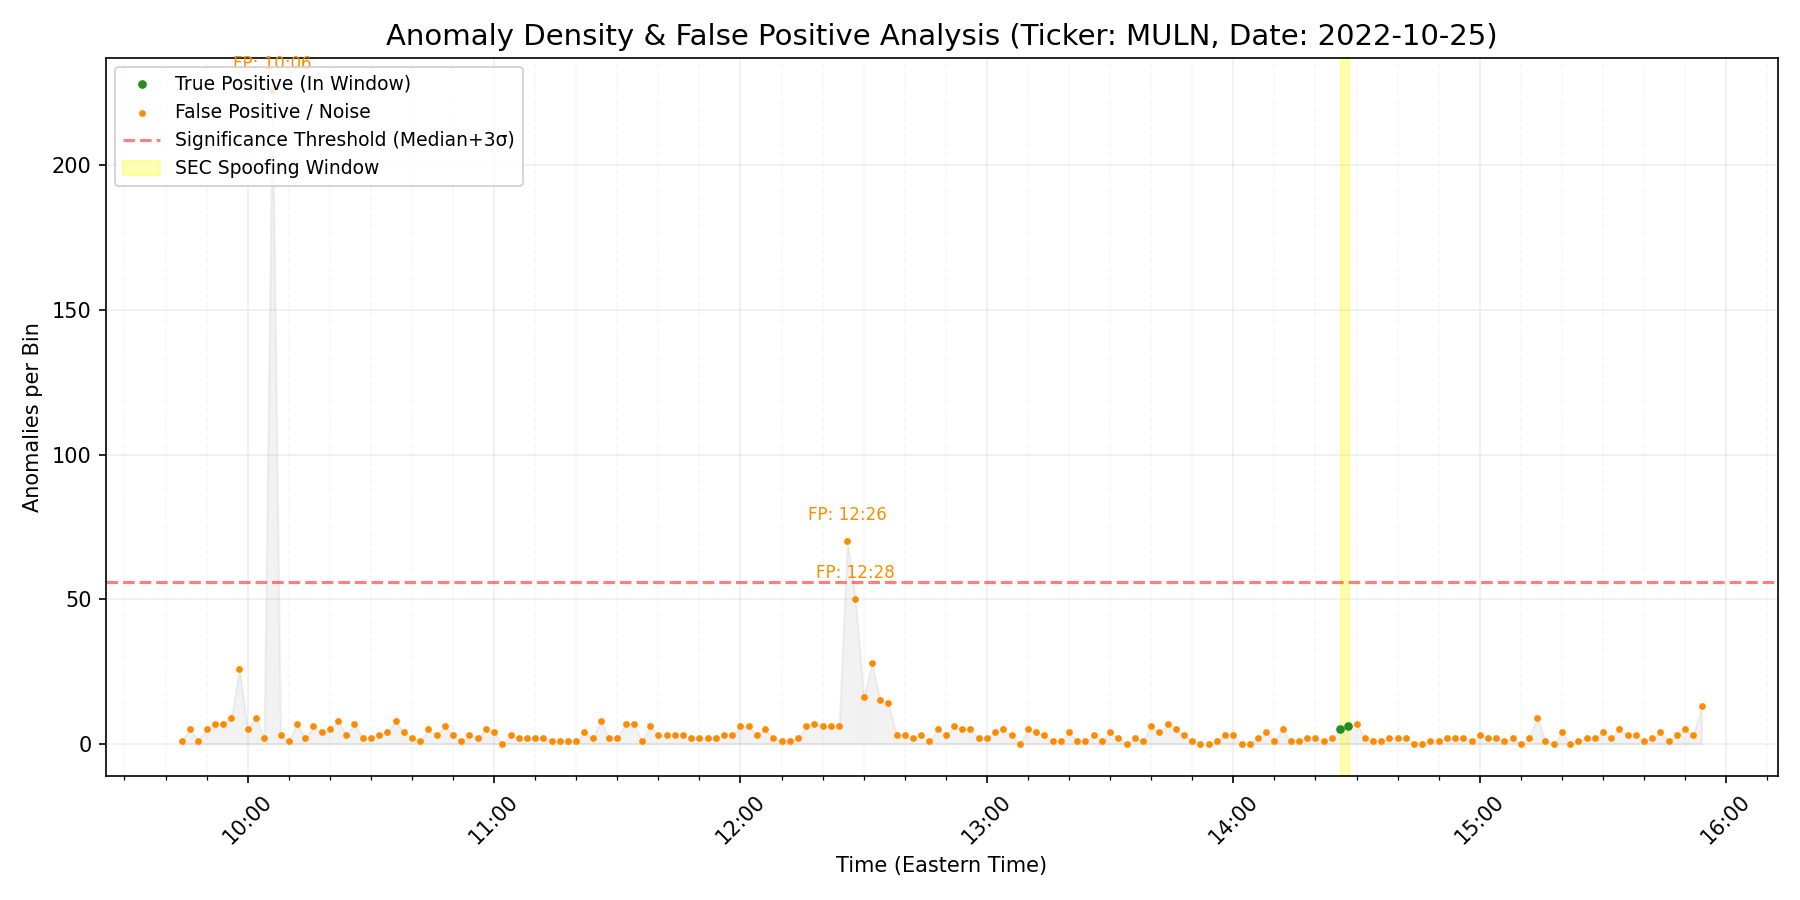
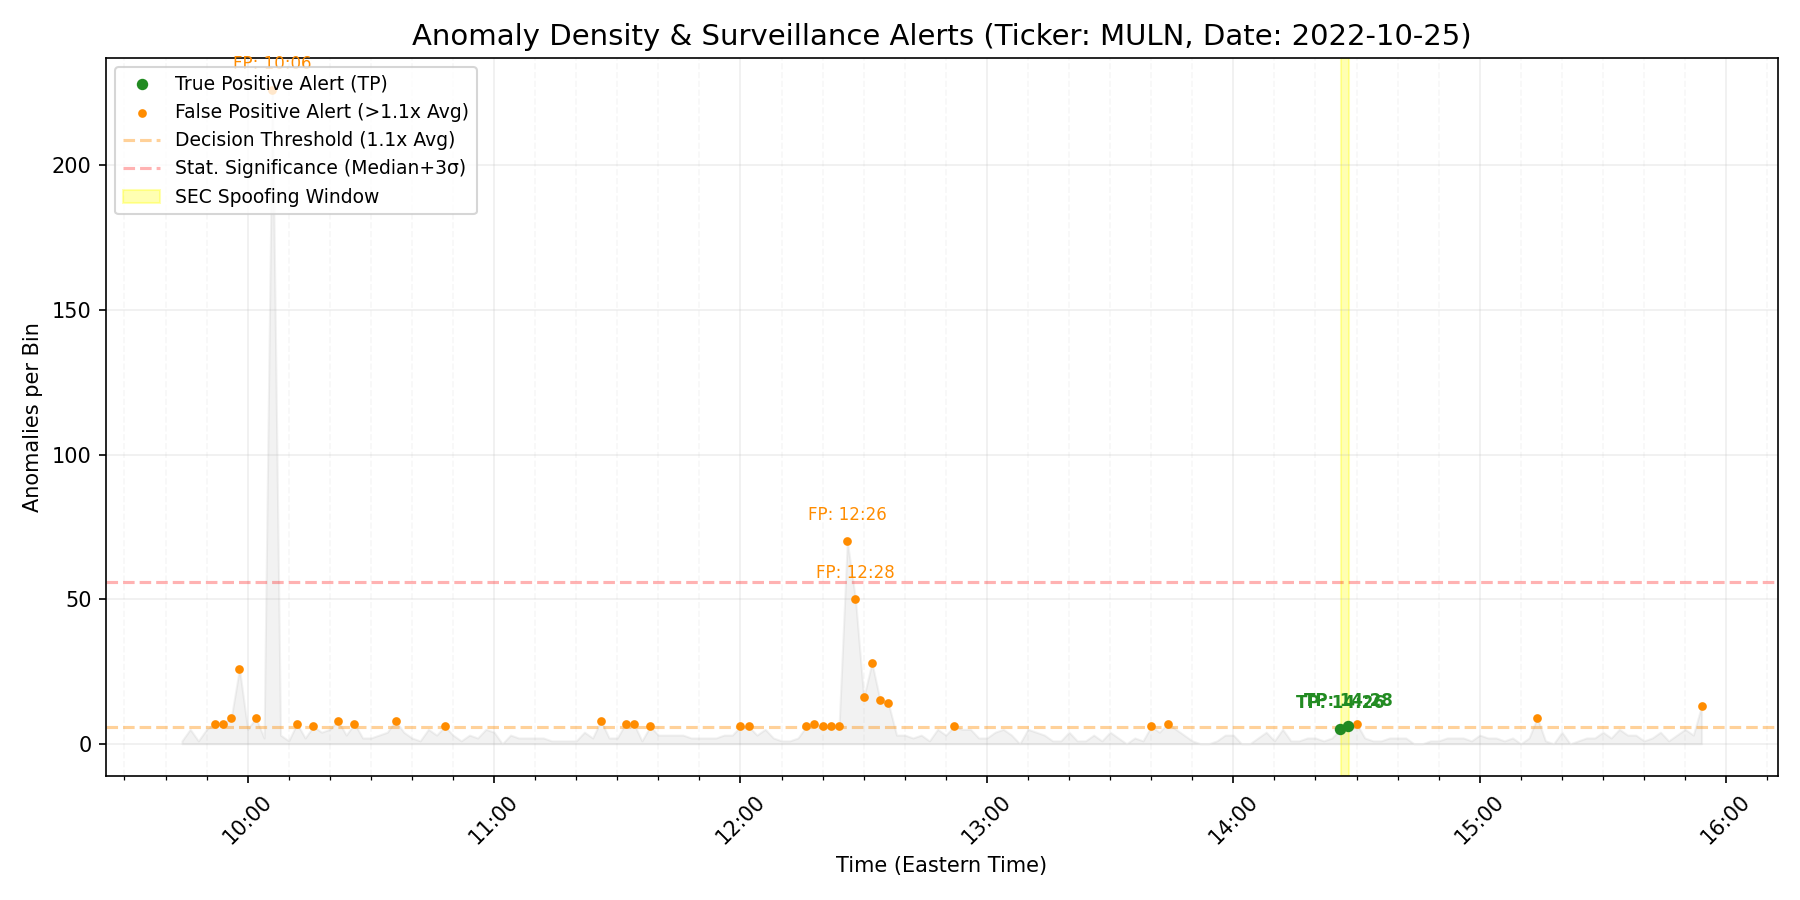
Density plotting now only marking >1.1x average Signal-noise-ratio

diff --git a/scripts/quantify_anomalies.py b/scripts/quantify_anomalies.py
@@ -17,6 +17,8 @@ def parse_args():
     p.add_argument("--output", default="output/plots/MULN_OCT25_DENSITY.png", help="Path to save the plot")
     p.add_argument("--bin-size", default="1min", help="Pandas frequency string (e.g. '1min', '5min')")
     p.add_argument("--target-date", help="The date of the manipulation (YYYY-MM-DD)")
+    p.add_argument("--fp-threshold-mult", type=float, default=1.1, 
+                   help="Only mark FP dots if they are X times higher than intraday average (default 1.1)")
     return p.parse_args()
 
 def main():
@@ -44,14 +46,14 @@ def main():
     # CRITICAL: Convert index to naive local time for plotting to fix alignment
     density.index = density.index.tz_localize(None)
 
-    # 3. Plotting (Enhanced for False Positive Analysis)
+    # 3. Plotting (Enhanced for Surveillance Decision Logic)
     plt.figure(figsize=(12, 6))
     
-    # Calculate a baseline threshold for "significant" noise
-    # (Median + 3*Std of the intraday activity)
-    threshold_val = density['anomalies'].median() + 3 * density['anomalies'].std()
+    # Calculate intraday average for decision logic
+    avg_anomalies = density['anomalies'].mean()
+    fp_threshold = avg_anomalies * args.fp_threshold_mult
+    sig_threshold_val = density['anomalies'].median() + 3 * density['anomalies'].std()
     
-    # Split data for color coding
     if args.target_date:
         target_dt = pd.to_datetime(args.target_date).date()
         win_start = pd.Timestamp.combine(target_dt, datetime.strptime("14:26:10", "%H:%M:%S").time())
@@ -59,29 +61,44 @@ def main():
         
         in_window_mask = (density.index >= (win_start - pd.Timedelta(bin_freq))) & (density.index <= win_end)
         
-        # Plot True Positives (Green) and False Positives (Orange)
-        plt.scatter(density.index[in_window_mask], density['anomalies'][in_window_mask], 
-                    color='forestgreen', s=10, zorder=5, label='True Positive (In Window)')
-        plt.scatter(density.index[~in_window_mask], density['anomalies'][~in_window_mask], 
-                    color='darkorange', s=5, zorder=4, label='False Positive / Noise')
+        # RULE: Only plot False Positives if they exceed the Decision Threshold
+        is_fp_spike = (~in_window_mask) & (density['anomalies'] >= fp_threshold)
+        is_tp_spike = in_window_mask & (density['anomalies'] > 0)
+        
+        # Plot TPs (Green)
+        plt.scatter(density.index[is_tp_spike], density['anomalies'][is_tp_spike], 
+                    color='forestgreen', s=20, zorder=6, label='True Positive Alert (TP)')
+        
+        # Label each TP bin
+        for idx, row in density[is_tp_spike].iterrows():
+             plt.annotate(f"TP: {idx.strftime('%H:%M')}", (idx, row['anomalies']), 
+                         textcoords="offset points", xytext=(0,10), ha='center', fontsize=8, color='forestgreen', weight='bold')
+
+        # Plot FPs (Orange) - ONLY THE SIGNIFICANT ONES
+        plt.scatter(density.index[is_fp_spike], density['anomalies'][is_fp_spike], 
+                    color='darkorange', s=10, zorder=5, label=f'False Positive Alert (>{args.fp_threshold_mult}x Avg)')
     else:
-        plt.scatter(density.index, density['anomalies'], color='firebrick', s=5)
+        # Simple plot where anomalies > 0
+        pos_anomalies = density['anomalies'] > 0
+        plt.scatter(density.index[pos_anomalies], density['anomalies'][pos_anomalies], 
+                    color='firebrick', s=8)
 
     plt.fill_between(density.index, density['anomalies'], color='gray', alpha=0.1)
-    plt.axhline(threshold_val, color='red', linestyle='--', alpha=0.5, label='Significance Threshold (Median+3σ)')
+    plt.axhline(fp_threshold, color='darkorange', linestyle='--', alpha=0.4, label=f'Decision Threshold ({args.fp_threshold_mult}x Avg)')
+    plt.axhline(sig_threshold_val, color='red', linestyle='--', alpha=0.3, label='Stat. Significance (Median+3σ)')
 
     # Highlight the SEC Window
     if args.target_date:
         plt.axvspan(win_start, win_end, color='yellow', alpha=0.3, label='SEC Spoofing Window')
     
-    # Annotate Top 3 False Positives
+    # Label top 3 significant FPs
     if args.target_date:
-        top_fps = density[~in_window_mask].sort_values('anomalies', ascending=False).head(3)
+        top_fps = density[is_fp_spike].sort_values('anomalies', ascending=False).head(3)
         for idx, row in top_fps.iterrows():
             plt.annotate(f"FP: {idx.strftime('%H:%M')}", (idx, row['anomalies']), 
                          textcoords="offset points", xytext=(0,10), ha='center', fontsize=8, color='darkorange')
 
-    plt.title(f"Anomaly Density & False Positive Analysis (Ticker: MULN, Date: {args.target_date})", fontsize=14)
+    plt.title(f"Anomaly Density & Surveillance Alerts (Ticker: MULN, Date: {args.target_date})", fontsize=14)
     plt.ylabel("Anomalies per Bin")
     plt.xlabel("Time (Eastern Time)")
     
@@ -94,7 +111,7 @@ def main():
     plt.tight_layout()
     
     plt.savefig(args.output, dpi=150)
-    print(f"Enhanced density plot saved to {args.output}")
+    print(f"Enhanced surveillance plot saved to {args.output}")
 
     # 4. Statistical Summary (Local Date only)
     if args.target_date:
@@ -106,7 +123,6 @@ def main():
         w_end_dt = pd.Timestamp.combine(target_dt_obj, datetime.strptime("14:28:10", "%H:%M:%S").time())
         
         # Find all bins that OVERLAP with the spoofing window
-        # This works for any bin size (1min, 5min, etc.)
         window_bins = day_data[(day_data.index >= (w_start_dt - pd.Timedelta(bin_freq))) & 
                                (day_data.index <= w_end_dt)]
         
